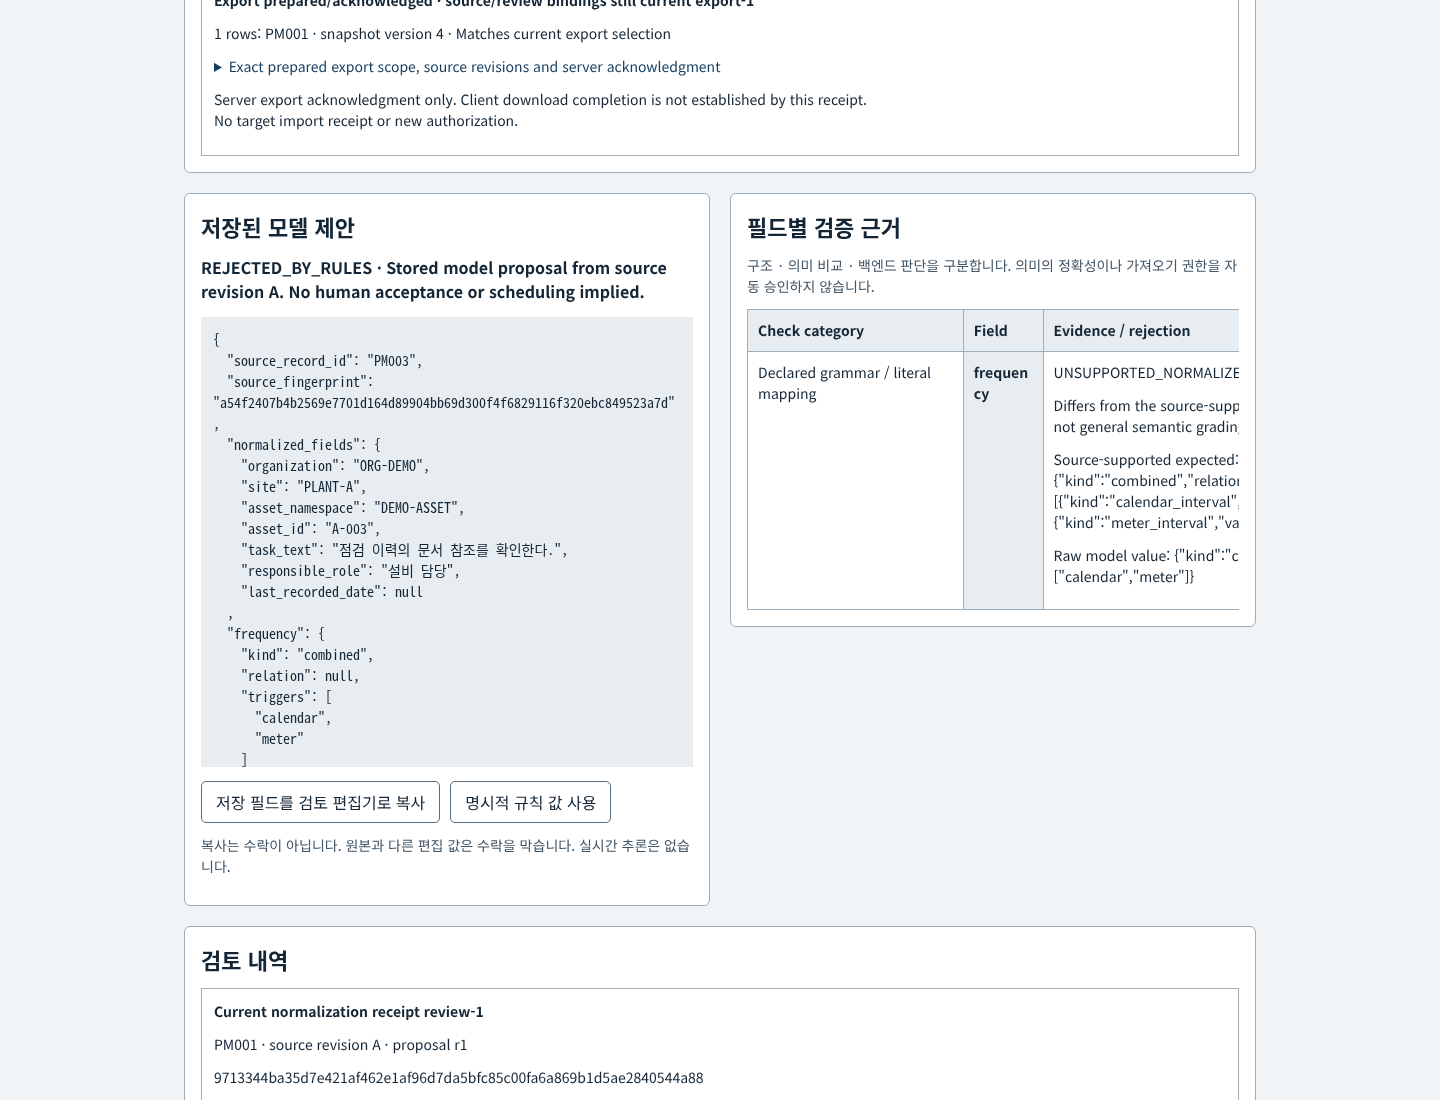
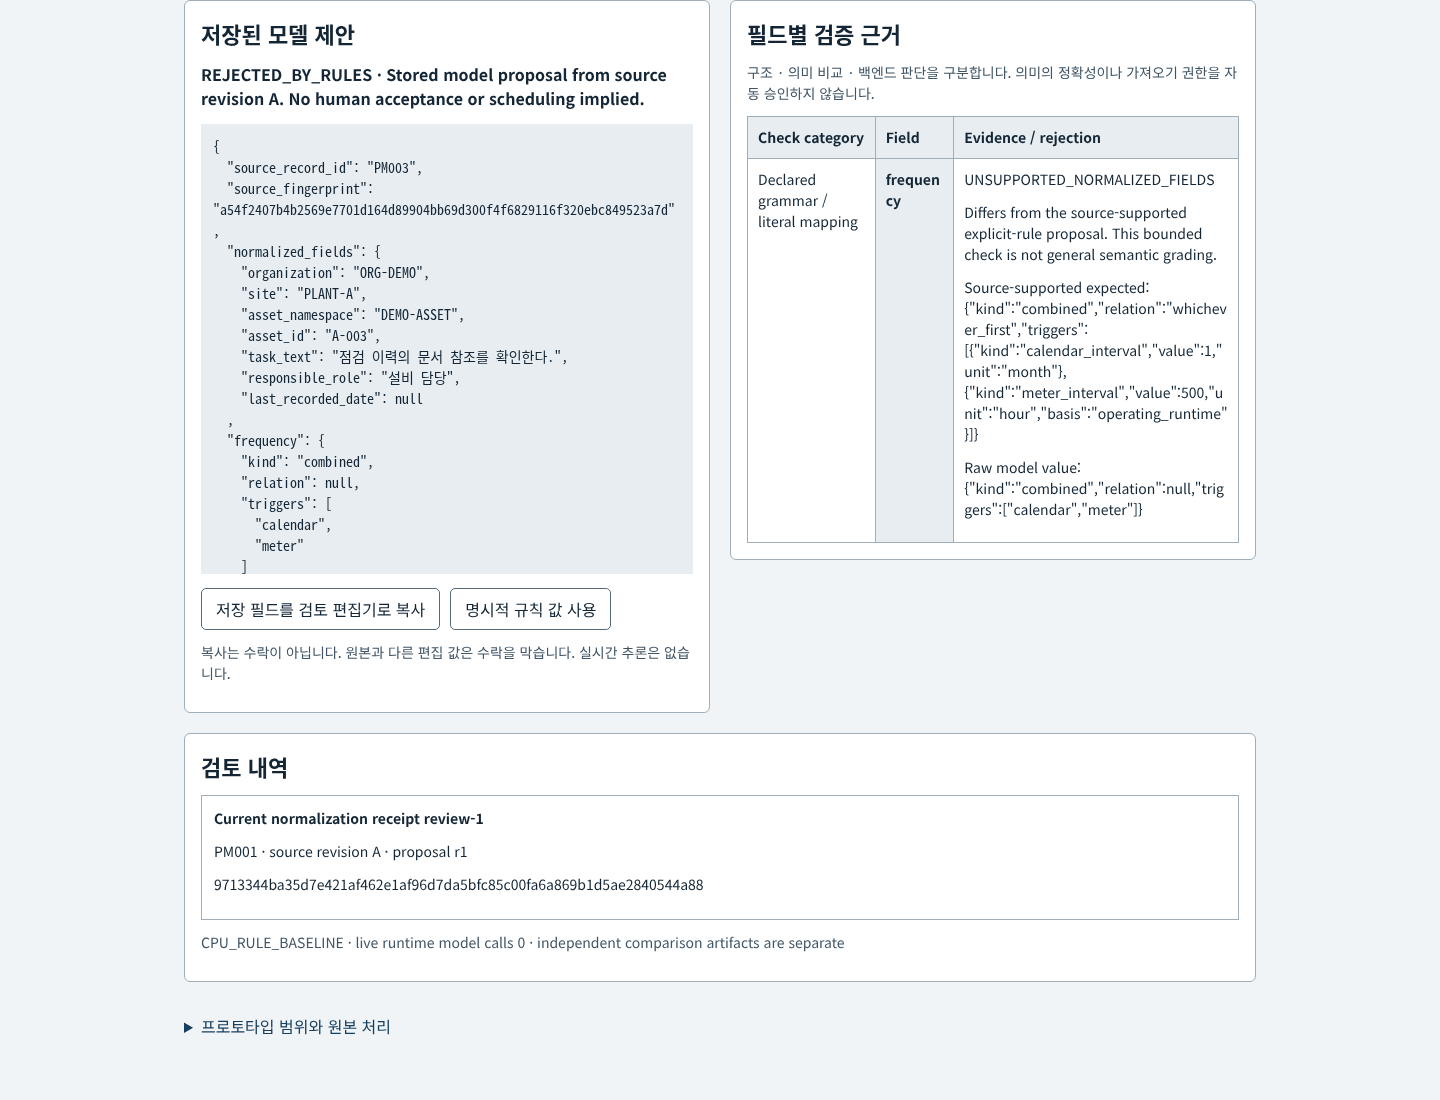
Show captioned receipts and full rejection evidence in targeted captures

Changed region(s): [[0.125, 0.0, 0.875, 0.5255], [0.125, 0.4018, 0.5938, 0.9891], [0.5938, 0.3091, 0.625, 0.34]]

diff --git a/ui/reference-layout/style.css b/ui/reference-layout/style.css
@@ -1,3 +1,4 @@
 /* Shared approved P09 reference. Keep these tokens/composition across assigned repos. */
 :root{font:16px/1.5 system-ui,sans-serif;color:#142635;background:#f1f4f6;--page:#f1f4f6;--text:#142635;--primary:#173f60;--line:#9eaeba;--evidence:#e7edf1}*{box-sizing:border-box}body{margin:0}.page-header,main{max-width:1120px;margin:auto;padding:24px}.page-header{padding-bottom:0;background:transparent;color:#142635}.page-title{font-size:36px;line-height:1.25;white-space:nowrap;margin:16px 0 20px;font-weight:700;letter-spacing:-.025em}main{padding-top:20px;display:grid;gap:20px}main>*{min-width:0}h1:not(.page-title),h2{font-size:22px;margin:0 0 12px}h3{font-size:18px;margin:12px 0}p{margin:12px 0;max-width:85ch}button,input,select,textarea{font:inherit;padding:8px 14px;border:1px solid #566b7a;border-radius:5px;max-width:100%;min-width:0}button{background:white;color:#142635;cursor:pointer}button.primary,button[aria-pressed=true]{background:#173f60;color:white}button:disabled{background:#e7edf1;color:#415566;cursor:default}button:focus-visible,input:focus-visible,select:focus-visible,summary:focus-visible,pre:focus-visible,[tabindex]:focus-visible{outline:3px solid #b34100;outline-offset:3px}.comparison{display:grid;grid-template-columns:minmax(0,1fr) minmax(0,1fr);gap:20px;align-items:start}.panel,.comparison>section{min-width:0;background:white;border:1px solid #9eaeba;padding:16px;border-radius:6px}.evidence,pre{max-width:100%;overflow:auto;font:14px/1.5 ui-monospace,monospace;background:#e7edf1;padding:12px;white-space:pre-wrap;overflow-wrap:anywhere}blockquote{margin:12px 0;padding:12px;border-left:4px solid #173f60;font-size:18px;white-space:pre-wrap;overflow-wrap:anywhere}.scope,.disclosure{font-size:14px;color:#415566}nav,.actions{display:flex;gap:10px;flex-wrap:wrap}table{font-size:14px;border-collapse:collapse;text-align:left}th,td{border:1px solid #9eaeba;padding:10px;vertical-align:top;overflow-wrap:anywhere}th{background:#e7edf1}.table-scroll,.grid-scroll{overflow:auto;min-width:0;max-width:100%}.status{font-weight:700;overflow-wrap:anywhere}details{margin:12px 0}summary{cursor:pointer;color:#173f60}footer{max-width:1120px;margin:auto;padding:24px;font-size:14px;color:#415566}@media(max-width:650px){.page-header,main{padding:16px}.page-header{padding-bottom:0}.page-title{font-size:28px;letter-spacing:-.035em;margin-top:12px}.comparison{grid-template-columns:minmax(0,1fr)}}
 nav a{display:inline-block;padding:8px 14px;border:1px solid #566b7a;border-radius:5px;background:white;color:#142635;text-decoration:none}nav a:focus-visible{outline:3px solid #b34100;outline-offset:3px}.section-title{display:flex;gap:12px;justify-content:space-between;flex-wrap:wrap}.section-title strong,#counts,#proposal-status,#source-meta,.fingerprint{font-size:14px;overflow-wrap:anywhere}label{display:flex;gap:10px;align-items:center;margin:12px 0}label.check{font-size:14px;align-items:flex-start}.check input{flex:none;margin-top:5px}.source-scroll{max-height:540px}.result-scroll{max-height:350px}.grid-scroll table{width:100%;min-width:860px}#field-diff{min-width:820px}#source-grid th,#source-grid td{min-width:105px;white-space:pre-wrap}#source-grid td button,#field-diff td button{padding:2px 4px;border:0;background:transparent;color:#173f60;font-size:14px;text-align:left}#source-grid tr.selected td{background:#e7edf1}.unknowns{border-top:1px solid #9eaeba;margin-top:16px}.unknowns li{font-size:14px;overflow-wrap:anywhere}.receipt-card{border:1px solid #9eaeba;padding:12px;margin-top:12px;font-size:14px;overflow-wrap:anywhere}.historical{color:#415566}#message:not(:empty){border-left:4px solid #173f60;padding:12px;font-size:14px;background:#e7edf1}textarea{width:100%;font:14px/1.5 ui-monospace,monospace}#trigger{max-height:200px}#export-preview{max-height:360px}#model-raw{max-height:450px}#source-heading{font-size:14px}nav{margin-bottom:12px}p,li{overflow-wrap:anywhere}@media(max-width:650px){label:not(.check){align-items:flex-start;flex-direction:column}.source-scroll{max-height:380px}.result-scroll{max-height:330px}.page-title{font-size:28px}}
+#model-validation{min-width:0;table-layout:fixed}#model-validation th:first-child{width:26%}#model-validation th:nth-child(2){width:16%}#model-validation th:nth-child(3){width:58%}

diff --git a/capture-targeted-evidence.py b/capture-targeted-evidence.py
@@ -1,0 +1,35 @@
+"""Three actual-browser capture corrections. No inference or semantic changes."""
+import asyncio,json,os,subprocess,urllib.request,hashlib
+from pathlib import Path
+from playwright.async_api import async_playwright,expect
+ROOT=Path(__file__).resolve().parent
+async def main():
+ out=ROOT/'artifacts/ui-refit';server=subprocess.Popen(['node','ui/reference-layout/server.mjs'],cwd=ROOT,env=dict(os.environ,P09_REFIT_PORT='5199'),stdout=subprocess.DEVNULL,stderr=subprocess.DEVNULL)
+ try:
+  for _ in range(40):
+   try:urllib.request.urlopen('http://127.0.0.1:5199',timeout=1).close();break
+   except Exception:await asyncio.sleep(.1)
+  async with async_playwright()as p:
+   b=await p.chromium.launch(executable_path='/usr/bin/google-chrome',args=['--no-sandbox','--disable-gpu']);page=await b.new_page(viewport={'width':1440,'height':1900});await page.goto('http://127.0.0.1:5199');await expect(page.locator('#counts')).to_contain_text('15 admitted captures')
+   await page.locator('[data-open=PM001]').click();await page.locator('#inspected').check();await page.locator('#review').click();await expect(page.locator('#receipt')).to_contain_text('current accepted');await page.evaluate('scrollTo(0,0)')
+   receipt=await page.locator('#receipt').bounding_box();assert receipt['y']>=0 and receipt['y']+receipt['height']<=1900
+   await page.screenshot(path=str(out/'03-accepted-normalization.png'))
+   await page.locator('[data-open=PM003]').click();await expect(page.locator('#model-validation')).to_contain_text('UNSUPPORTED_NORMALIZED_FIELDS')
+   await page.set_viewport_size({'width':1440,'height':1100});await page.locator('#stored-panel').evaluate("el=>el.scrollIntoView({block:'start'})")
+   validation=await page.locator('#model-validation').evaluate('el=>{let b=el.getBoundingClientRect(),p=el.parentElement.getBoundingClientRect();return {left:b.left,right:b.right,top:b.top,bottom:b.bottom,parent_left:p.left,parent_right:p.right,scroll_width:el.parentElement.scrollWidth,client_width:el.parentElement.clientWidth}}');assert validation['left']>=validation['parent_left']and validation['right']<=validation['parent_right']+1 and validation['top']>=0 and validation['bottom']<=1100
+   await page.screenshot(path=str(out/'06-stored-rejection-fields.png'))
+   await page.locator('#inspected').check();await page.locator('#review').click();await expect(page.locator('#receipt')).to_contain_text('current accepted')
+   await page.locator('#changed-column').evaluate("el=>el.closest('details').open=true");await page.locator('#changed-value').fill('매월');await page.locator('#source-change').click();await expect(page.locator('#source-heading')).to_contain_text('revision A-demo-2');await expect(page.locator('#model-status')).to_contain_text('Historical stored output; original source revision A');await expect(page.locator('#history')).to_contain_text('Historical normalization receipt');assert await page.locator('#inspect-model').is_disabled()
+   await page.evaluate('scrollTo(0,0)');await page.screenshot(path=str(out/'07-current-and-historical-revision.png'),full_page=True)
+   historical={'current_source':await page.locator('#source-heading').inner_text(),'current_acceptance':await page.locator('#receipt').inner_text(),'model_status':await page.locator('#model-status').inner_text(),'receipt_history':await page.locator('#history').inner_text(),'document_height':await page.evaluate('document.documentElement.scrollHeight')}
+   mobile=await b.new_page(viewport={'width':390,'height':844});await mobile.goto('http://127.0.0.1:5199');await expect(mobile.locator('#model-validation')).to_contain_text('ARCHIVED_STALE');assert await mobile.evaluate('document.documentElement.scrollWidth')==390;assert await mobile.locator('#model-validation').evaluate('el=>el.offsetWidth<=el.parentElement.clientWidth+1');await mobile.close()
+   proof={'kind':'Targeted actual Chrome capture framing corrections','additional_model_calls':0,'executed_in_CI':False,'accepted_receipt_fully_inside_capture':receipt,'validation_table_fully_inside_capture':validation,'historical_full_page':historical,'mobile_390_no_horizontal_clip':True,'capture_script_sha256':hashlib.sha256(Path(__file__).read_bytes()).hexdigest(),'changed_images':['03-accepted-normalization.png','06-stored-rejection-fields.png','07-current-and-historical-revision.png']}
+   manifest=json.loads((out/'asset-provenance.json').read_text());unchanged=[]
+   for asset in manifest['assets']:
+    path=ROOT/asset['path'];sha=hashlib.sha256(path.read_bytes()).hexdigest()
+    if path.name in proof['changed_images']:asset.update(bytes=path.stat().st_size,sha256=sha)
+    else:assert asset['sha256']==sha and asset['bytes']==path.stat().st_size;unchanged.append(asset['path'])
+   proof['unchanged_media_verified']=unchanged;manifest['targeted_capture_proof']='artifacts/ui-refit/capture-framing-checks.json';(out/'asset-provenance.json').write_text(json.dumps(manifest,indent=2)+'\n');(out/'capture-framing-checks.json').write_text(json.dumps(proof,indent=2)+'\n');print(json.dumps(proof))
+   await b.close()
+ finally:server.terminate();server.wait(timeout=5)
+asyncio.run(main())

diff --git a/README.md b/README.md
@@ -29,7 +29,7 @@ A native source-cell grid and field comparison for fictional maintenance-registe
 기존 v1 저장 출력의 원문과 필드별 거절 근거를 함께 확인합니다. 구조·의미·백엔드 결정은 별개입니다.
 ![저장 제안 거절 근거](artifacts/ui-refit/06-stored-rejection-fields.png)
 
-새 원본 리비전을 허용하면 현재 헤더가 바뀌고 과거 모델 출력·검토·초안 확인이 현재 권한을 되살리지 않습니다.
+전체 페이지에서 현재 원본 A-demo-2와 원래 A의 과거 모델 출력·영수증을 함께 확인합니다. 과거 검토가 현재 권한을 되살리지 않습니다.
 ![현재 원본과 과거 출력](artifacts/ui-refit/07-current-and-historical-revision.png)
 
 별도 v2 저장 제안 화면은 원본 C9 셀과 미수락 원문 JSON을 나란히 보여 줍니다. 구조 적합성이 의미 정확성을 증명하지 않습니다.
@@ -41,7 +41,7 @@ A native source-cell grid and field comparison for fictional maintenance-registe
 390px에서는 두 패널을 순서대로 읽으며 한 줄 제목과 14px 이상 근거 글자를 유지합니다.
 ![390px 저장 제안](artifacts/ui-refit/10-mobile-390.png)
 
-[실제 CPU 브라우저 영상](artifacts/ui-refit/review-workflow.mp4) · [실행한 Chrome 검사](artifacts/ui-refit/browser-checks.json) · [새 미디어 SHA256·바이트 출처](artifacts/ui-refit/asset-provenance.json) · [기능 목록](docs/ui-refit-inventory.md). 브라우저 검사는 로컬 Chrome에서 실행했으며 CI에서 실행했다고 주장하지 않습니다. 기존 모델 요청·스키마·출력·평가 파일은 수정하지 않았습니다.
+[첫 refit CPU 영상 · 세 캡처 보완 전 기록](artifacts/ui-refit/review-workflow.mp4) · [실행한 Chrome 검사](artifacts/ui-refit/browser-checks.json) · [새 미디어 SHA256·바이트 출처](artifacts/ui-refit/asset-provenance.json) · [최종 UI 소스 출처](artifacts/ui-refit/preservation.json) · [세 캡처의 화면 내 근거 검사](artifacts/ui-refit/capture-framing-checks.json) · [기능 목록](docs/ui-refit-inventory.md). 브라우저 검사는 로컬 Chrome에서 실행했으며 CI에서 실행했다고 주장하지 않습니다. 기존 모델 요청·스키마·출력·평가 파일은 수정하지 않았습니다.
 
 <details><summary>이전 화면과 미디어 · historical</summary>
 
